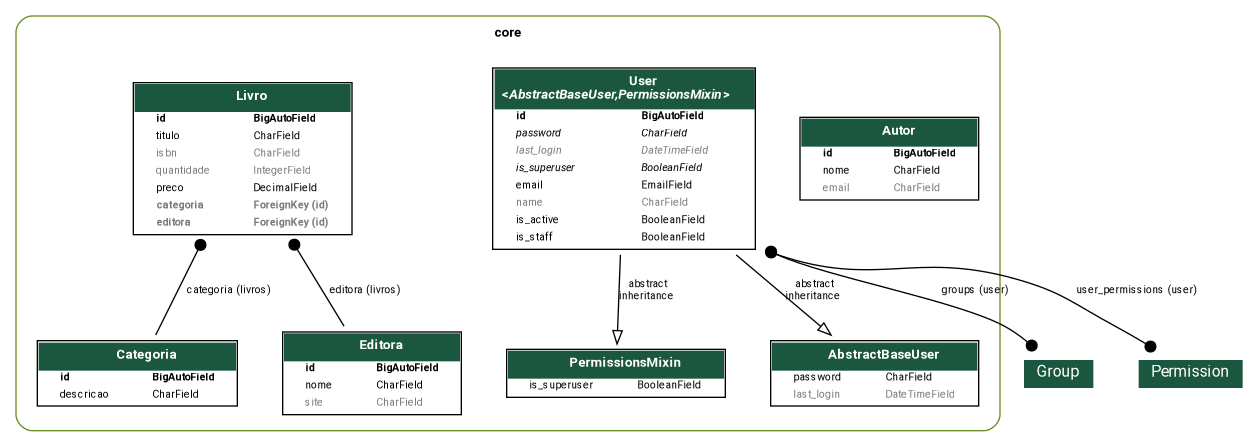
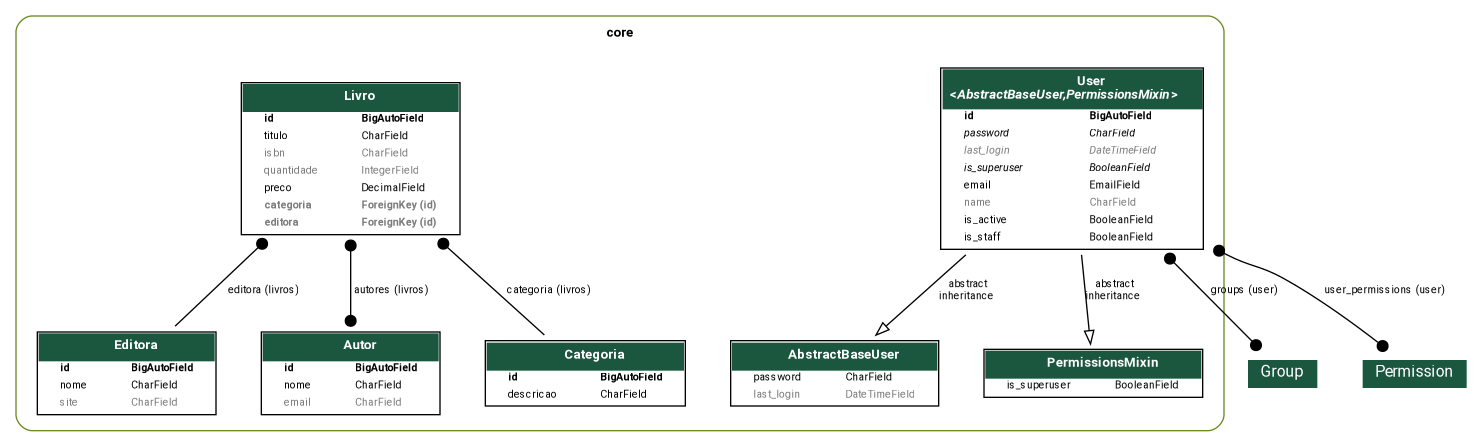
FEAT: inclusão do relacionamento n para n entre Livro e Autor

diff --git a/core/models/livro.py b/core/models/livro.py
@@ -1,5 +1,6 @@
 from django.db import models
 
+from .autor import Autor
 from .categoria import Categoria
 from .editora import Editora
 
@@ -7,12 +8,13 @@ from .editora import Editora
 class Livro(models.Model):
     titulo = models.CharField(max_length=255)
     isbn = models.CharField(max_length=32, null=True, blank=True)
-    quantidade = models.IntegerField(default=0,  null=True, blank=True)
+    quantidade = models.IntegerField(default=0, null=True, blank=True)
     preco = models.DecimalField(max_digits=7, decimal_places=2, default=0)
     categoria = models.ForeignKey(
         Categoria, on_delete=models.PROTECT, related_name='livros', null=True, blank=True
     )
     editora = models.ForeignKey(Editora, on_delete=models.PROTECT, related_name='livros', null=True, blank=True)
+    autores = models.ManyToManyField(Autor, related_name='livros', blank=True)
 
     def __str__(self):
         return f'({self.id}) {self.titulo} ({self.quantidade})'

diff --git a/core/migrations/0007_livro_autores.py b/core/migrations/0007_livro_autores.py
@@ -1,0 +1,18 @@
+# Generated by Django 5.2.12 on 2026-03-19 14:31
+
+from django.db import migrations, models
+
+
+class Migration(migrations.Migration):
+
+    dependencies = [
+        ('core', '0006_autor_categoria_editora_livro'),
+    ]
+
+    operations = [
+        migrations.AddField(
+            model_name='livro',
+            name='autores',
+            field=models.ManyToManyField(blank=True, related_name='livros', to='core.autor'),
+        ),
+    ]
